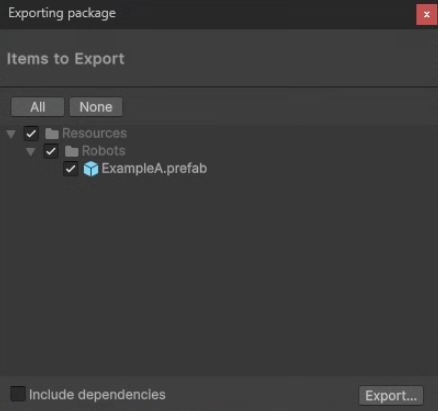
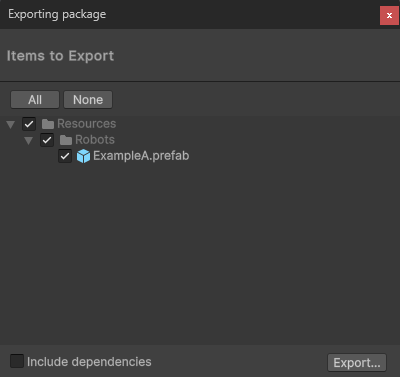
Updated `SharingRobots` images

diff --git a/Documentation/SharingRobots.md b/Documentation/SharingRobots.md
@@ -6,7 +6,7 @@
 * Right-click on the robot you want to share and select `Export Package`
 * Deselect the `Include dependencies` box on the bottom of the window that opens up. This should leave just the robot
   you want to save and the filepath to it
-  <img src="\Documentation\Img\SharingRobots\Export Image.png">
+  ![image](Img/SharingRobots/Export%20Image.png)
 * Click export and save the file however you'd like
 * That's it! Your robot is now saved as a unity package that can be transferred to other users
 
@@ -17,5 +17,7 @@
 * Right-click an empty spot in the `Project Window` and select `Import Package -> Custom Package...`
 * Locate and select the `.unitypackage` robot file. This should open up the import window
 * In the import window, ensure that the robot prefab is selected and click `Import`
-  <img src="\Documentation\Img\SharingRobots\Import Image.png">
-* It's that simple! Your robot is now uploaded. To start playing with it, select it in the `GameManager` like any other robot and start playing. Don't forget that any robots you upload can still be edited as normal, so don't be afraid to change settings such as keybinds to your liking
+  ![image](Img/SharingRobots/Import%20Image.png)
+* It's that simple! Your robot is now uploaded. To start playing with it, select it in the `GameManager` like any other
+  robot and start playing. Don't forget that any robots you upload can still be edited as normal, so don't be afraid to
+  change settings such as keybinds to your liking
